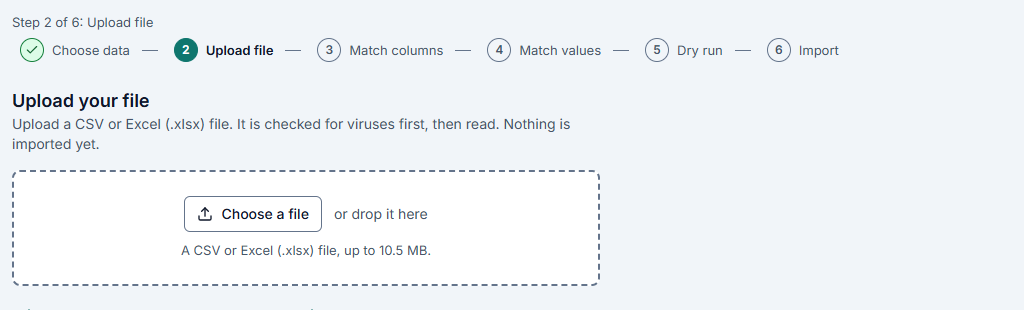
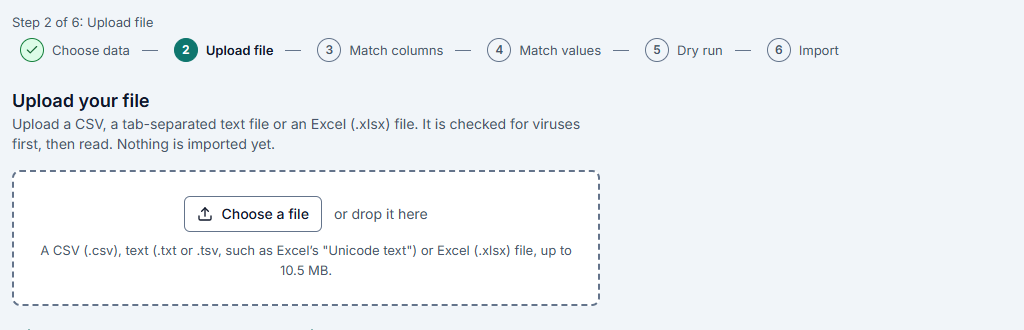
docs: audit B.34 (release 0.2.10: the import polish, verification, the UI check of the four sample files and a Unicode text file) and its index row; the relay-race flake in section C; exit item 8 names 803; re-shoot 01-import-upload (the new hint)

diff --git a/docs/AUDIT.md b/docs/AUDIT.md
@@ -134,6 +134,7 @@ Chronological, oldest first. Dates are the commit or document dates in the repos
 | B.31 | 2026-11-26 | Import test corpus (M2-IMP-09, first criterion; ED-31; released in 0.2.8) | 17 fixtures + generated 100k file; one message fixed, one gap logged (M2-IMP-10); API e2e 790/790 direct and pooled |
 | B.32 | 2026-11-26 | Release 0.2.8: M2 close-out before the founder walk-through (ED-32, ED-33), corpus and checklist merged | Lost/found/dispose, bulk move, Organisation page, Open PDF, unlink duplicates fixed; API e2e 791/791 direct and pooled, real-stack 72/72, mock 767/767 |
 | B.33 | 2026-11-26 | Release 0.2.9: fixes from the automated run of the founder walk-through (ED-34 to ED-39) | 8 app bugs and 7 checklist/guide errors fixed; walk-through steps 17, 24, 25-28, 39 re-run through the UI: pass; API e2e 798/798 direct and pooled, real-stack 72/72, mock 768/768 |
+| B.34 | 2026-11-27 | Release 0.2.10: import polish before the founder's real-file trial (M2-IMP-10, ED-40) | IMP-10 and five import fixes; four sample files and a Unicode text file checked through the UI: 11/11; API e2e 803/803 direct and pooled (one relay-race flake, rerun), real-stack 72/72, mock 775/775 |
 
 ### B.1 Desk validation - 2026-11-17
 
@@ -828,9 +829,79 @@ Root causes found and fixed after the wave 2 runs showed flaky behaviour under l
   "allow creating missing people" (true: the person policy can be **Create it**, as guide 2 now says); two Google rows
   whose tag exists say only "is already in use" without the field in the sentence; on **Match values** a long reason
   runs into the next column; the amber "No row can be imported" banner on a re-import where nothing changed; prices
-  written "Rs.44000/-" are not read as numbers.
+  written "Rs.44000/-" are not read as numbers. (All but the "No person named" text were fixed in 0.2.10, B.34.)
 - **Open:** M2-IMP-09 real-file trial (F-09), M2-IMP-10, steps 17 and 19 with the founder's scanner and printer, and
   M2-UX-01 (the founder's walk-through).
+
+### B.34 Release 0.2.10: import polish before the founder's real-file trial - 2026-11-27 (version 0.2.10)
+
+- **Scope:** branch `imp-polish` from `main` (`629c47b`): M2-IMP-10 and the import items B.33 listed as "seen, not changed"
+  (ED-40). Contract: `ImportValue.issue.rows` and `.categories`, the `summary` description (`skipped_by_code`), the attachment
+  and import create texts, through `gen.mjs`; api-client regenerated; the API.md catalogue is unchanged. No migration. ADR
+  0006 has an amendment note.
+- **What changed (item, fix, test):**
+  - **`.txt` / `.tsv` import files** (M2-IMP-10): `checkDeclaredType(..., { importFile })` takes `.csv`, `.tsv`, `.txt`
+    declared as `text/csv`, `text/plain` or `text/tab-separated-values` for kind `import_file` only, stored as `text/csv`
+    and sniffed by the import-file CSV rules; other kinds unchanged. Wizard `accept=".csv,.tsv,.txt,.xlsx"` and hint; guide 1
+    names the Excel save formats. Unit tests (`content.test.ts`: allowed names and types, refused names and types, other
+    kinds, sniffing of `.txt` against markup and binaries), the corpus case uploads `utf16le-unicode-text.txt` under its own
+    name as `text/plain` (and refuses it as a `document` and as `.html`), web unit and mock e2e (a tab-separated
+    `Unicode text.txt`).
+  - **Rupee prices:** `parseNumber` reads past a leading `Rs` / `Rs.` / `INR` / currency symbol, a trailing `Rs` and `/-` or
+    `/=`; `currencyHint` gives INR for `₹`, and for `Rs` the import's rupee (PKR, LKR, NPR, MUR, SCR) or INR. Unit tests
+    (17 notations, lakh grouping, refusals) and the corpus file `rupee-prices.csv` (18 fixtures now; a bare `44000/-`
+    takes the organisation's currency, "donated" is a `number` error).
+  - **Uniqueness errors name the field and the record:** the dry-run tag clash says "Asset tag X is already used by another
+    asset."; the registry's 409s for an asset tag, an external id, a person's email or employee number and a department
+    code name the record (`takenBy`); an import row takes the problem's sentence for every `duplicate` field error
+    (`issuesOf`). Unit test of `issuesOf`, e2e (`walkthrough.e2e.test.ts`: matching on serial with a taken tag; the 409
+    sentences of assets, people and departments).
+  - **Row counts on Match values:** `ImportValue.issue.rows` / `.categories` (model scopes grouped with their row counts and
+    category texts); the web shows **Needs a decision**, "3 rows in category Network will be errors", then the reason. E2e
+    (five rows of one model in two categories: 3 rows, category "Network" once although written three ways), the location
+    case (`rows` = `count`, no category), web unit test of the sentence.
+  - **Long reason:** the cell wraps (`whitespace-normal`, fixed width), the reason is clamped to two lines with the full
+    text as `title` and **Show the whole reason** / **Show less** (`aria-expanded`). Web unit test, mock e2e that measures
+    the reason inside its cell collapsed and expanded, axe in light and dark (new screen in `imports.spec.ts`).
+  - **"Nothing to change":** `summary.skipped_by_code`; the review shows the info banner when nothing is written, nothing
+    fails and every skip is `exists` / `unchanged` (repeats and summary lines aside). E2e (first run `duplicate-in-file`,
+    re-runs `exists` and `unchanged`), helper and screen unit tests, mock e2e and axe in light and dark.
+  - **Docs:** ED-40 and its index row; ADR 0006 amendment; guides 1 and 2; walk-through header (deferred until the founder's
+    hardware and files), steps 25, 28, 38, 39, exit item 8 (803) and "Changes in 0.2.10"; FEATURES, STATUS (section 1 M2
+    row, section 3 "Next"), backlog (IMP-09, IMP-10 done, UX-01), VERSION 0.2.10; `01-import-upload.png` re-shot with
+    `shoot.mjs --only=import` (the only guide picture whose screen changed).
+  - **B.33 candidates:** fixed here: the "its rows will be errors" wording for a model, the bare "is already in use", the
+    long reason on Match values, the amber banner on an unchanged re-import, "Rs.44000/-". Not changed: the "No person
+    named ..." text offering "allow creating missing people" (correct as written, B.33). None of them was a backlog entry.
+- **Result** on the final code (compose project `atpol`, host ports 27000 to 27901, every stack fresh with `down -v`; the
+  founder's `assettracker` stack and folder untouched): `pnpm install --frozen-lockfile` clean; `turbo run lint typecheck
+  test build --force` 21/21, 0 cached (API unit 674, web 854, api-client 14, ui-tokens 15, schemas 3); `format:check` clean;
+  `gen.mjs` reproduces `openapi.yaml` (205 operations), `gen-api-md --check`, api-client `generate:check` and Redocly (valid)
+  clean; `db:pull` no drift, `schema:lint` 0 violations; API e2e with `ADMIN_DATABASE_URL`, mail, MinIO and clamd: 803/803 in
+  68 files direct and 803/803 through PgBouncer with the `app_one` negative control (passed), 0 skipped
+  (`assert-no-skips.mjs`); web mock e2e 775/775 (Chrome); web real-stack e2e 72/72 on a fresh stack.
+- **Rerun:** the first pooled run failed 1 of 803: `flows.e2e.test.ts` "commits in batches ..." found no `import.completed`
+  notification after its own `OutboxRelay.runOnce`. The compose `worker` relays the outbox of every active tenant, the test
+  tenants included (`roles/worker.ts`), so it can claim the event first; the same race as the loaner mail tests in B.20.
+  Not related to this change; the full pooled rerun passed 803/803. Logged in section C.
+- **UI check through the real wizard** (an automated Chrome on a fresh demo stack, production build): the upload box offers
+  `.csv,.tsv,.txt,.xlsx` with the new hint; a UTF-16 LE tab-delimited `Unicode text export.txt` (20 rows of file 1 with
+  their own tags) uploaded under its name, stored as `text/csv`, read as `utf-16le` / tab, 19 create and 1 error (the
+  UniFi row, category not mapped in that run). `1-office-assets-clean.csv`: **UniFi U6 Pro** "Needs a decision", "3 rows in
+  category Network will be errors", reason inside its column collapsed and expanded; after mapping Network to Network
+  equipment 100 / 0 / 0 / 0 and 100 created; the same file again: 0 / 0 / 100 / 0, `skipped_by_code` `exists` 100, the blue
+  "Nothing to change: every row matches what is already there.", no amber banner, **Nothing to import** disabled.
+  `2-school-inventory-messy.csv`: the only price error is row 45 "donated"; `Rs.44000/-`, `₹ 58,000` and the other rupee
+  cells are INR amounts (plain numbers take the demo organisation's USD); "Latitude 5440" "1 row in category laptop will be
+  an error", "EB-X51" "1 row in category LAPTOPS will be an error", "Lab 1" "19 rows will be errors", every reason inside
+  its column. `3-office-assets.xlsx`: 60 error rows, "Serial number X40100037 is already used by OFF-0001." and the model
+  rows, no bare "is already in use". `4-google-admin-chromeos-sample.csv`: "Asset tag CHR-00004 is already used by another
+  asset." and CHR-00010, 20 "No person named ..." rows, no bare "is already in use". 11 of 11 checks passed.
+- **Seen, not changed:** a price column whose header names the currency ("Price (Rs)") does not lend it to the plain
+  numbers of that column, so on an organisation whose currency is not INR one file can give INR and the organisation's
+  currency side by side (a candidate: a column-level currency hint).
+- **Open:** the founder's part of M2, deferred until the hardware and real files are there: M2-IMP-09 real-file trial
+  (F-09), steps 17, 19, 28, 37 on a real device and the wrap-up of M2-UX-01.
 
 ---
 
@@ -854,4 +925,5 @@ Root causes found and fixed after the wave 2 runs showed flaky behaviour under l
 | Two open Dependabot pull requests (GitHub Actions; OpenTelemetry exporter)                               | The exporter was pinned on purpose                                    | Founder 👤, STATUS.md                                                                                    |
 | `ensurePartitions` can use up its 10 NOWAIT attempts under sustained writes (known, not fixed)          | `migrate` or the monthly partition job then fails and must be rerun; no data is lost | `apps/api/src/db/maintenance.ts`; found by the 0.2.7 independent verification (B.30) |
 | `assertAnotherAdmin` is a plain count without a row lock (known, not fixed; predates 0.2.7)              | Two concurrent removals of two different admins could leave a tenant with no admin | `apps/api/src/auth/users.service.ts`; found by the 0.2.7 verification (B.30) |
+| `flows.e2e.test.ts` "commits in batches" can miss its `import.completed` notification when the compose `worker`'s outbox relay (it relays every active tenant, the test tenants too) claims the event first (known, not fixed) | A run with the compose stack up can fail that one test; a rerun passes | Found by the 0.2.10 verification (B.34); fix: hand the event to the subscriptions in-process, as the loaner mail tests do (B.20) |
 | Two e2e flakes (known, not fixed): TOTP time-step test (`auth-security.e2e.test.ts:630`), scan wait in `custody-files.spec.ts:177` (5 s) | A step boundary or a slow scan can fail a run; a rerun passes | Found by the 0.2.7 verification (B.30) |

diff --git a/docs/acceptance/m2-walkthrough.md b/docs/acceptance/m2-walkthrough.md
@@ -843,7 +843,7 @@ ISOLATION_MODE=direct DATABASE_URL=postgres://app_user:dev@localhost:5433/app pn
 ISOLATION_MODE=pooled DATABASE_URL=postgres://app_user:dev@localhost:6432/app POOLED_ONE_URL=postgres://app_user:dev@localhost:6432/app_one pnpm --filter @assettracker/api test:e2e
 ```
 
-Each run ends with a line such as `Tests  798 passed (798)` (0.2.9): the item passes with 0 failed and 0 skipped in both modes.
+Each run ends with a line such as `Tests  803 passed (803)` (0.2.10): the item passes with 0 failed and 0 skipped in both modes.
 
 Mark item 8 here: - [ ] Passes (0 skipped) - [ ] Fails — note: ____
 
